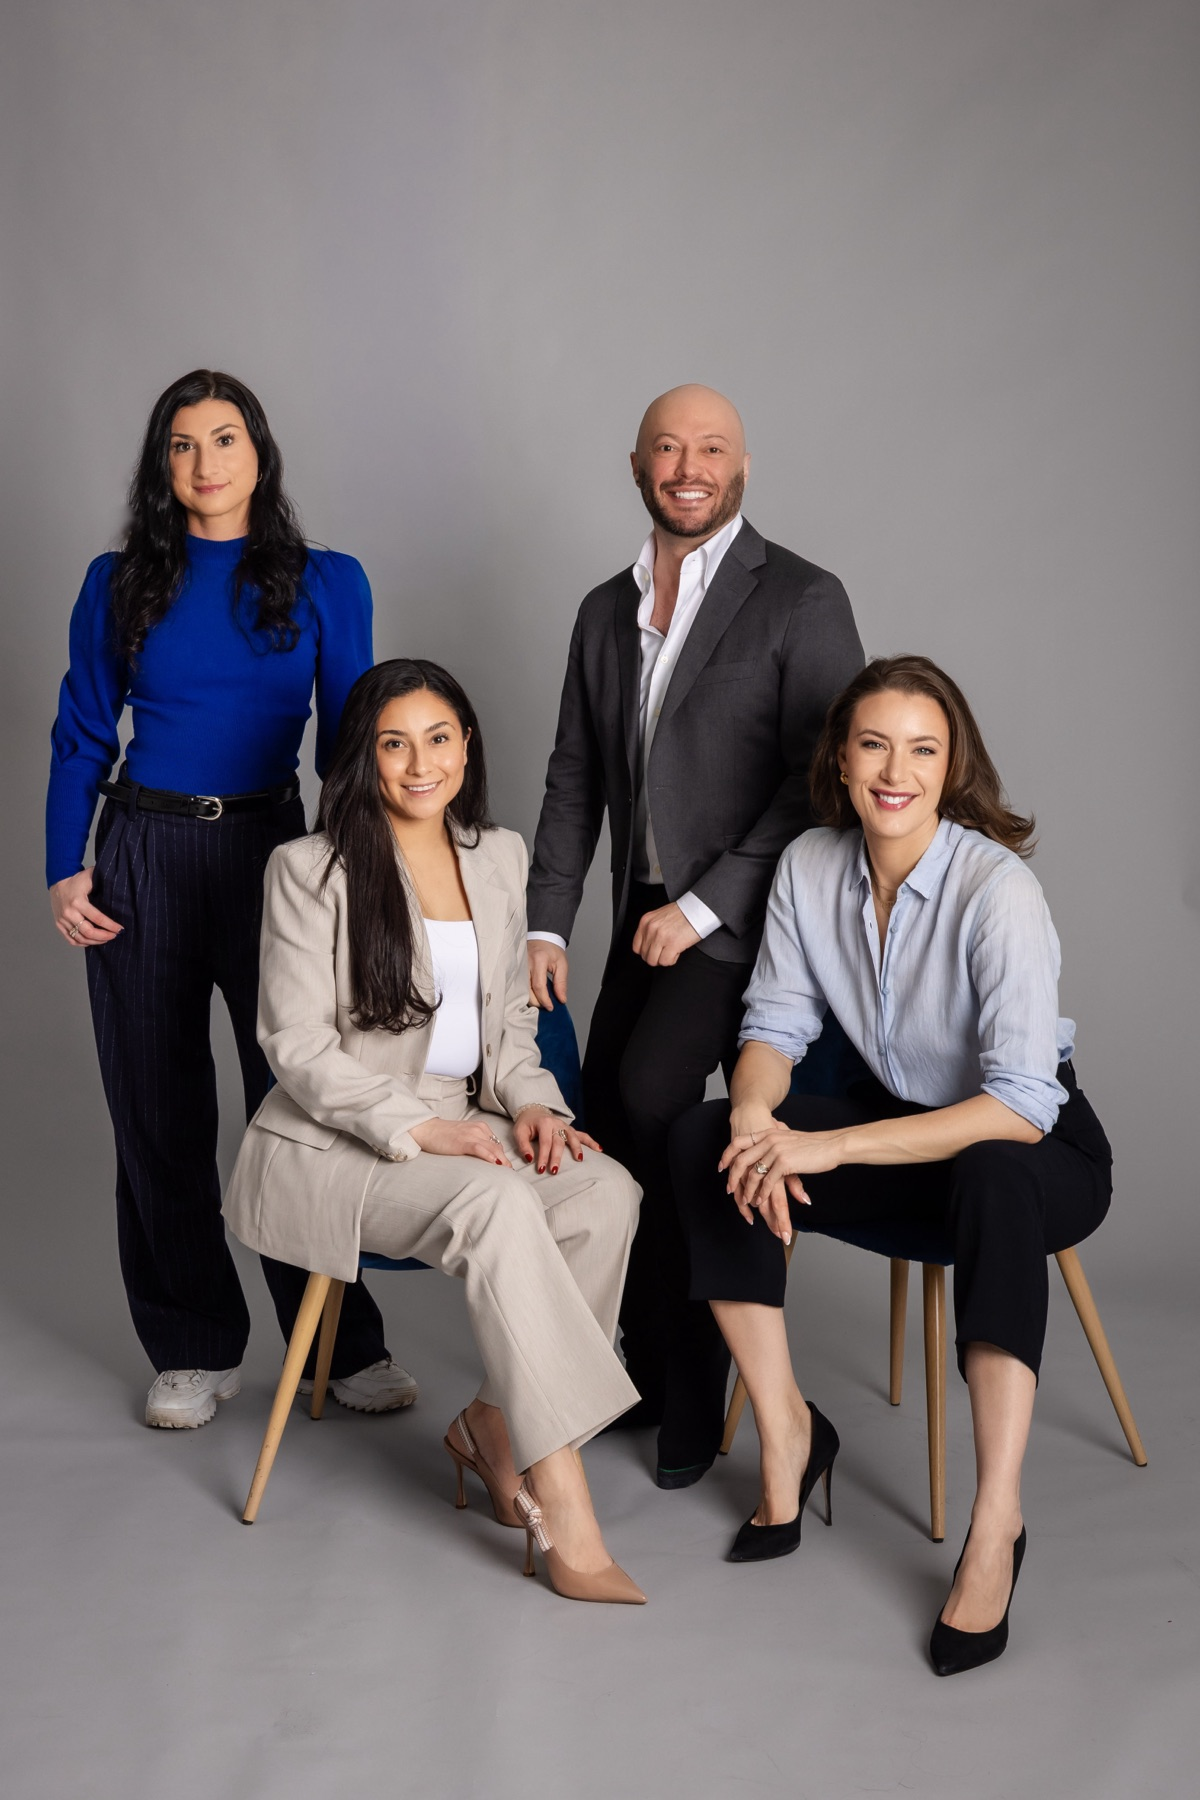
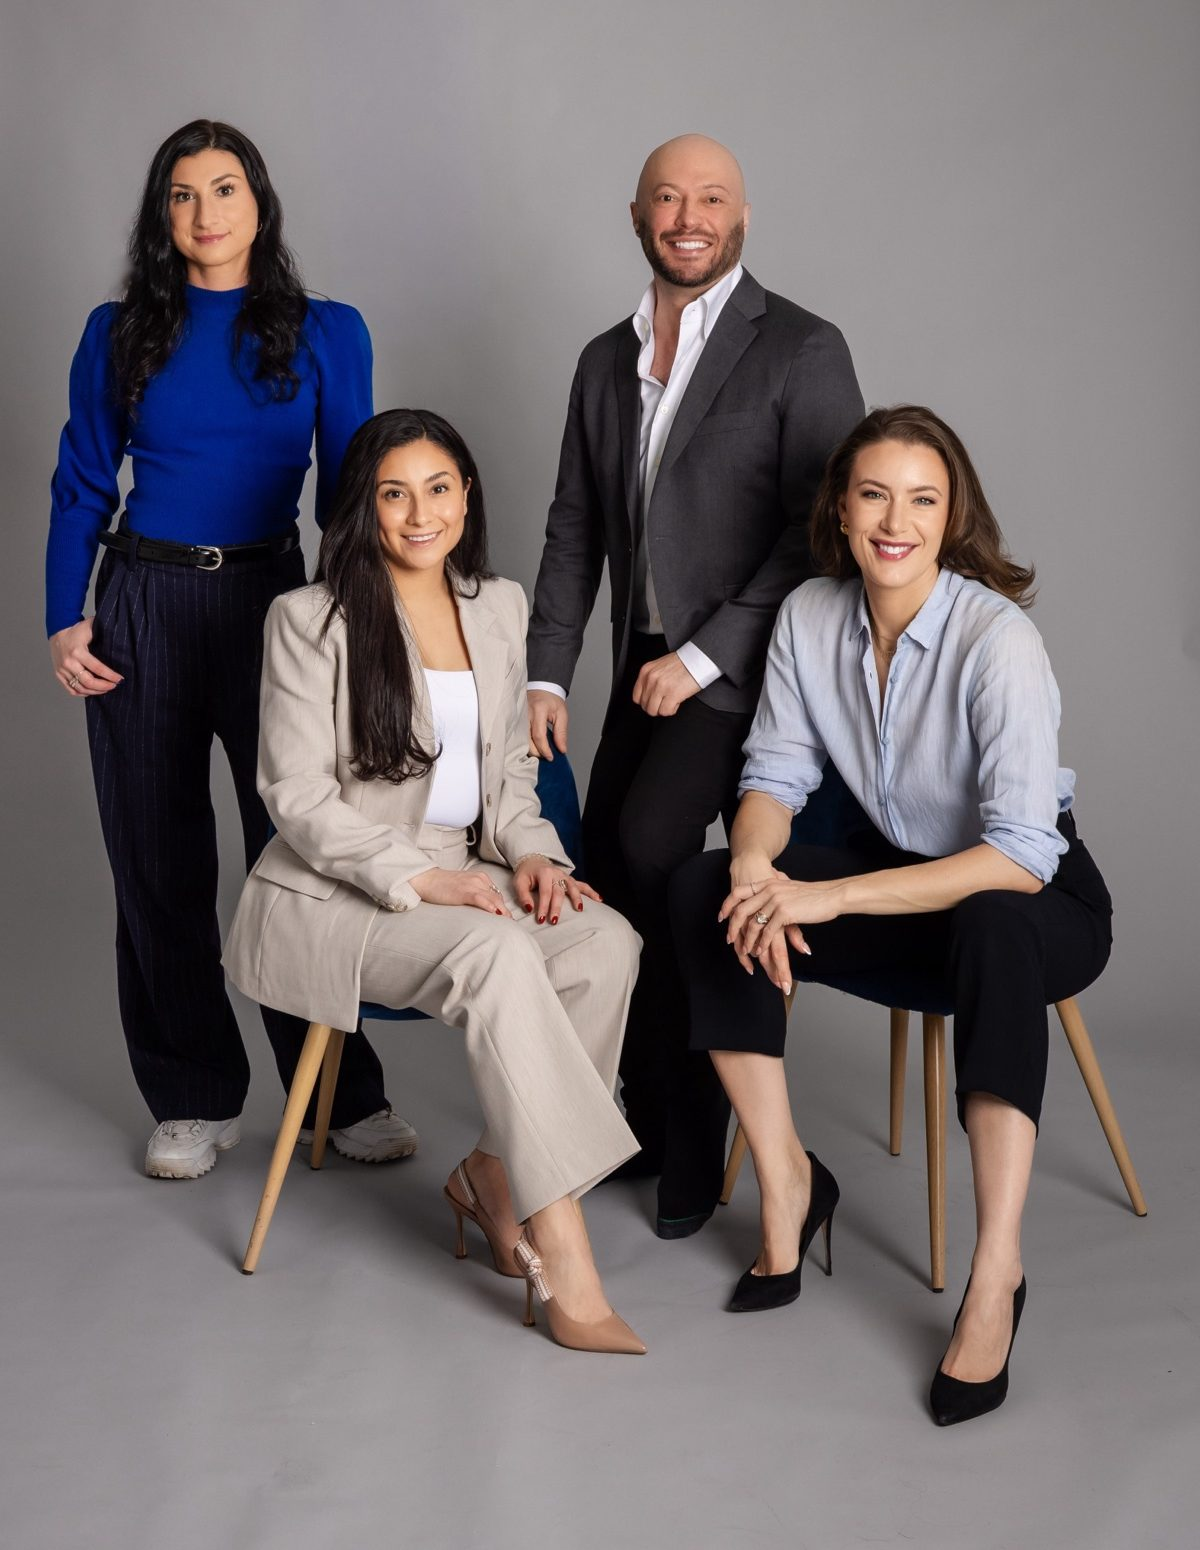
fix(eden): crop team photo top space, merge first two About paragraphs

diff --git a/src/pages/about.js b/src/pages/about.js
@@ -47,8 +47,7 @@ function buildAbout() {
         <div class="about-story-grid">
           <div class="about-story-text">
             <div class="about-story-body">
-              <p>Eden is a strategic communications firm for companies at the frontier of finance and technology.</p>
-              <p>We were built by operators, not agency people. Our founder came from the New York Post and ABC. Our team includes former leads from Meta, Google, Mastercard, Deloitte, and OKX.</p>
+              <p>Eden is a strategic communications firm for companies at the frontier of finance and technology. We were built by operators, not agency people. Our founder came from the New York Post and ABC. Our team includes former leads from Meta, Google, Mastercard, Deloitte, and OKX.</p>
               <p>We started Eden because the old model is broken and the new one is incomplete. Traditional agencies charge bloated retainers, issue anemic press releases and report metrics that don\u2019t connect to business outcomes. The \u201Cgo direct\u201D movement got a lot right \u2014 but a founder with a massive following and no institutional credibility will lose the enterprise deal. A protocol with a thriving community and no presence in AI search is invisible to the next wave of capital and users.</p>
               <p>We\u2019re building something different. An AI-native firm that uses automation and intelligence to move faster than shops ten times our size \u2014 and a human-first team that maintains the journalist relationships, taste-making abilities and executive network that technology cannot replicate.</p>
               <p>We work with institutional-grade companies including Ondo Finance, Stellar Development Foundation, Reed Smith, Wintermute Trading, and Cohen & Company Capital Markets, representing $10 billion in tokenized assets, trading volume, and capital markets value.</p>
